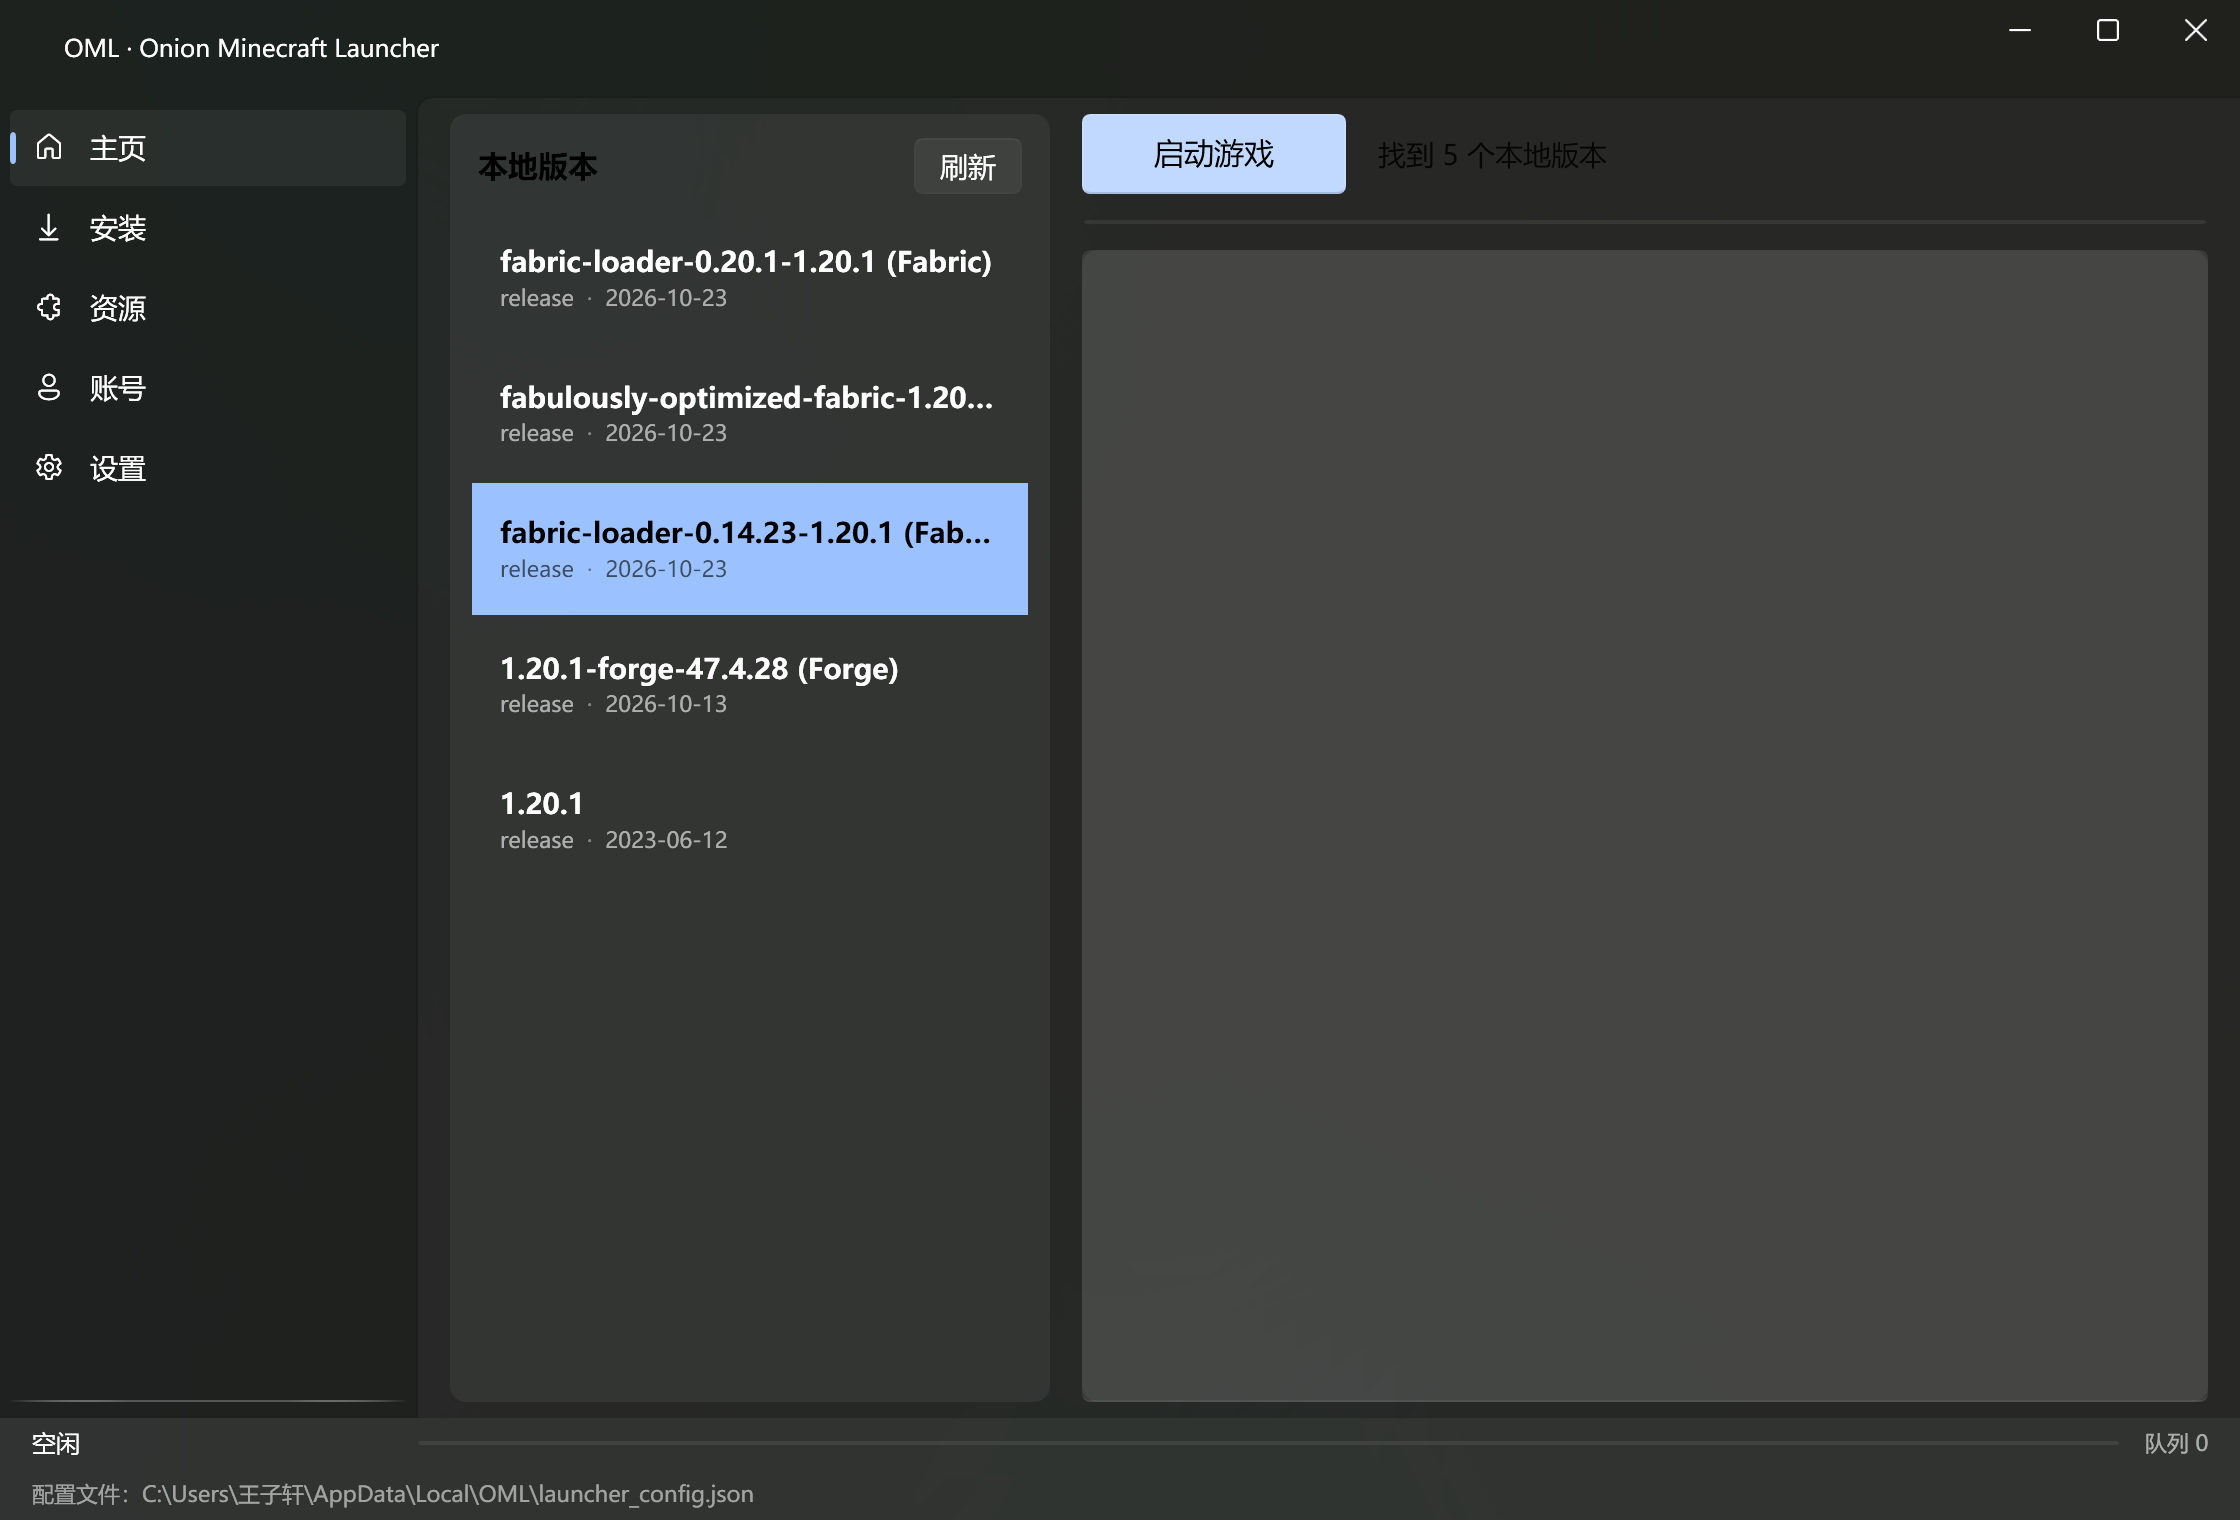
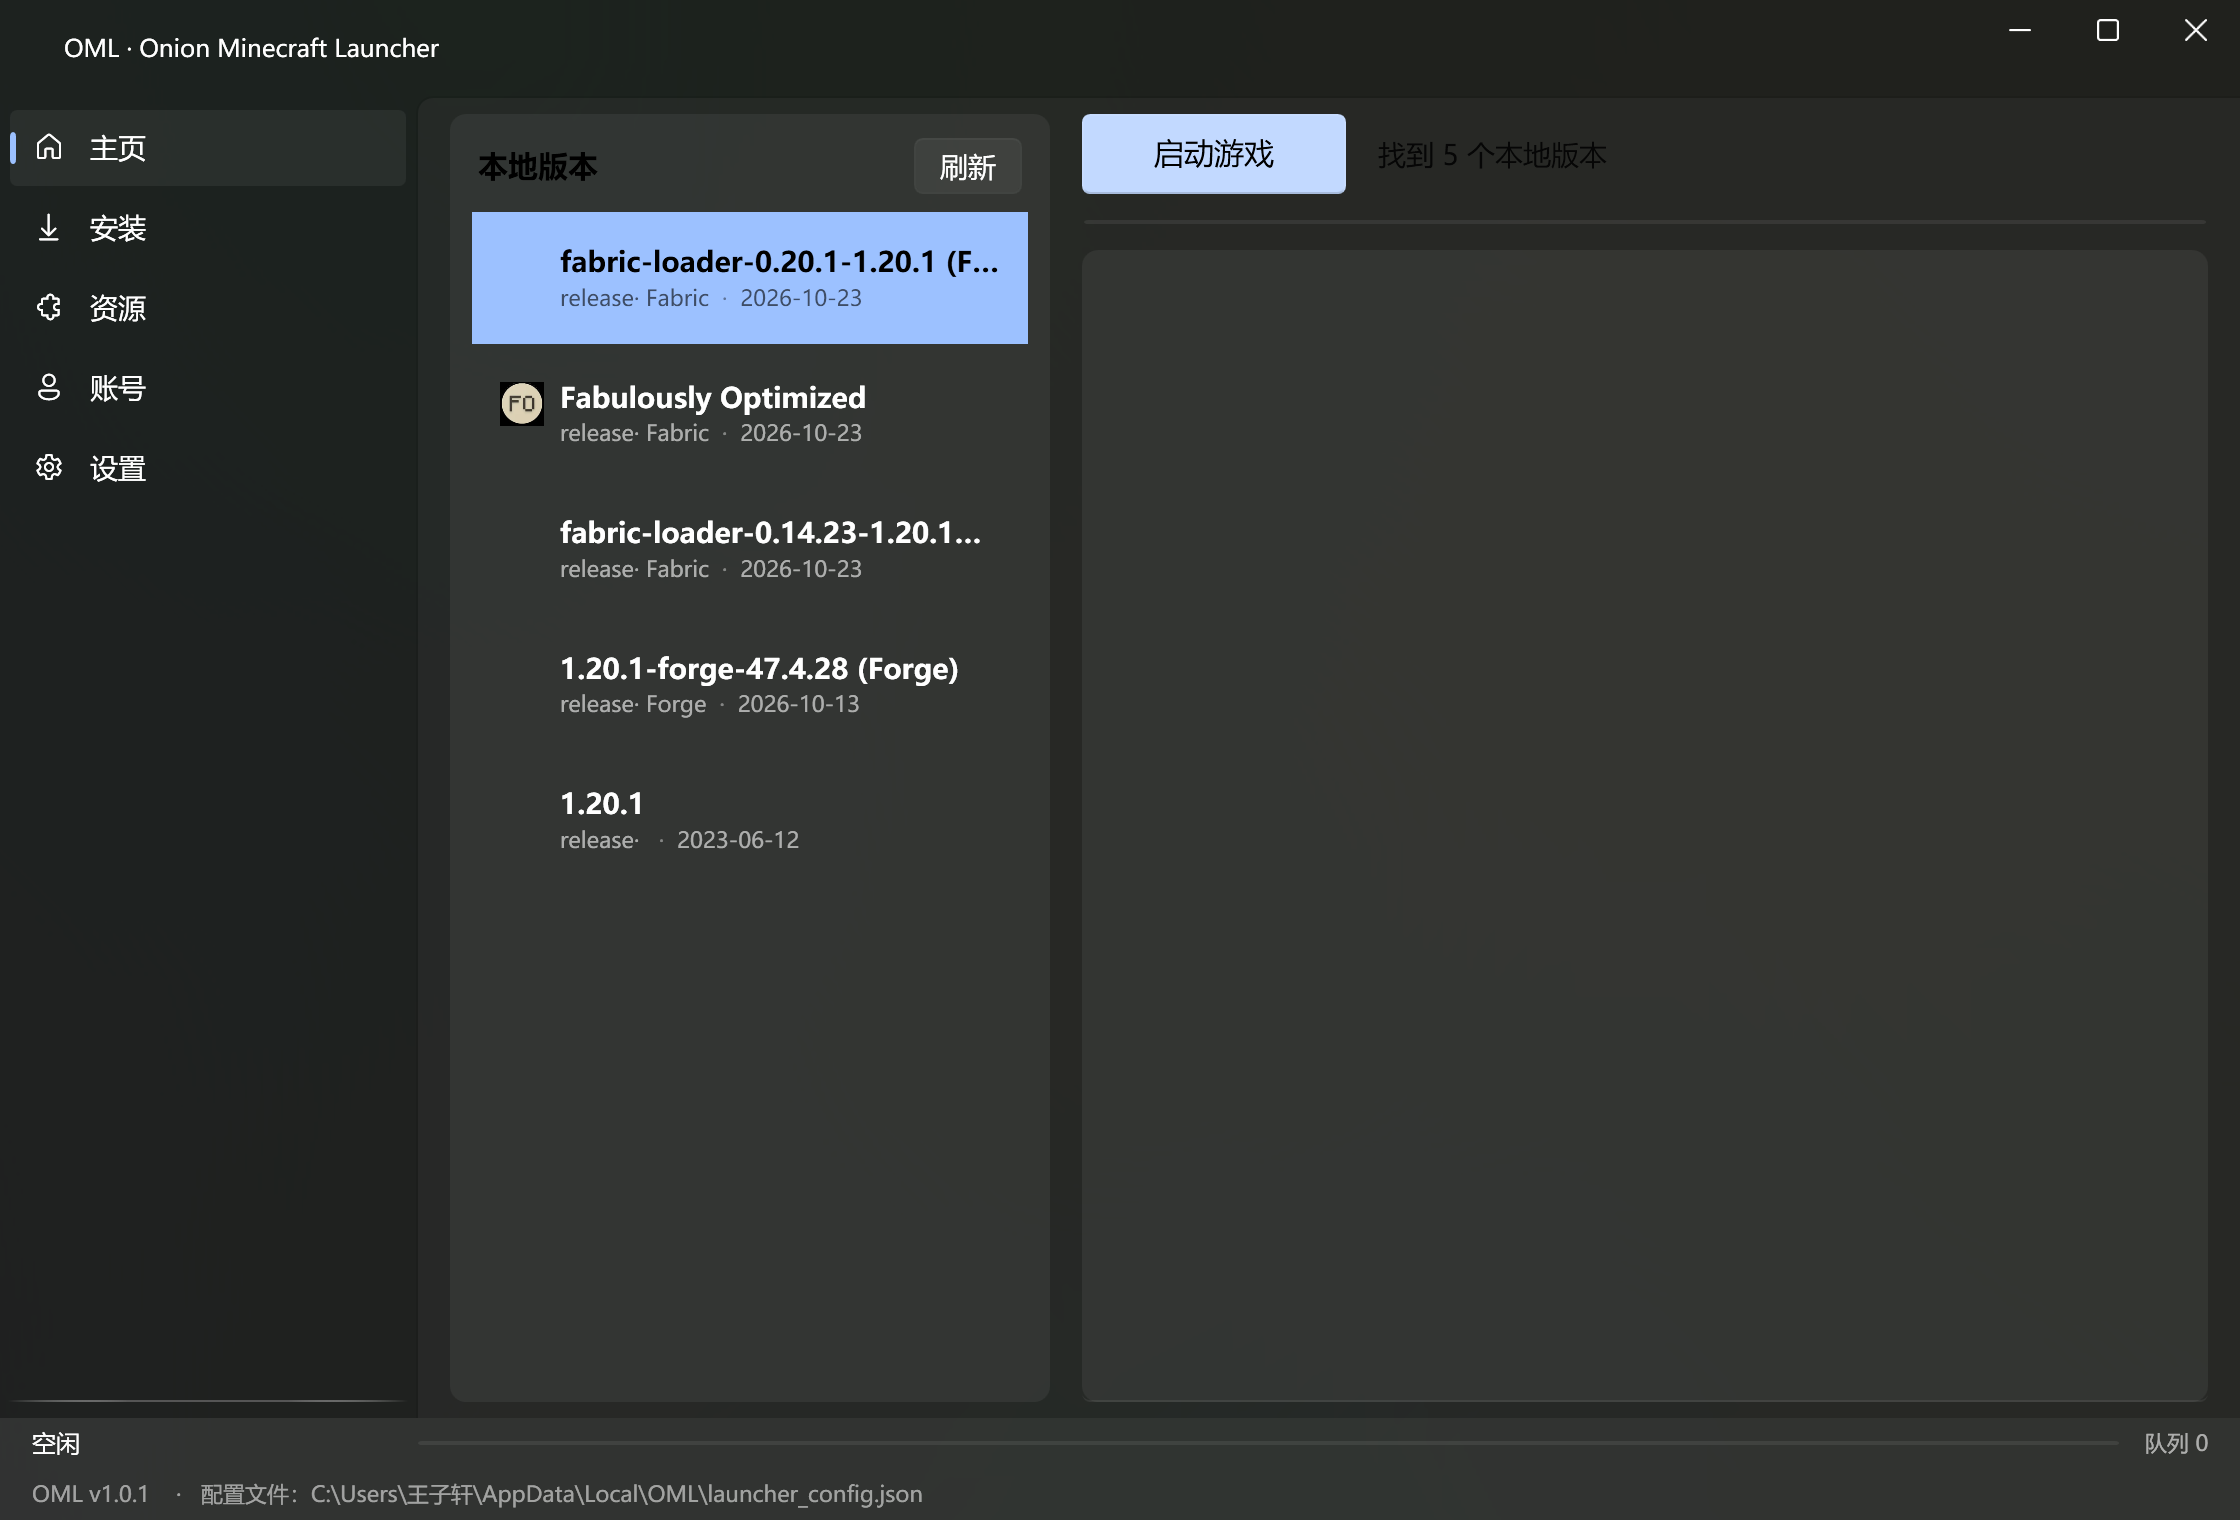
feat: verified auto-update, GitHub Actions release and instance metadata
Auto-update (verified end to end):
- packed 1.0.0 and 1.0.1 with vpk, installed 1.0.0 silently (per-user, no UAC)
- pointed OML_UPDATE_SOURCE at the 1.0.1 release directory; the installed 1.0.0
  showed the update banner, downloaded, restarted and sq.version became 1.0.1
- footer now shows the assembly version so the bump is visible (OML v1.0.1)

CI:
- .github/workflows/release.yml runs on v* tags: .NET 8, publish, install vpk,
  pack with the tag version, upload to the GitHub Release with GITHUB_TOKEN
- publish output directories are gitignored

Instances:
- modpack installs write versions/<id>/instance.json with name/icon/packVersion
- LocalVersionScanner reads it and the home list prefers that name and icon,
  falling back to the version id when the file is missing or malformed
- verified with Fabulously Optimized: the list shows its real name and icon

Docs: README stage 18 section, docs/UPDATE.md now records the actual run and
troubleshooting steps.

diff --git a/OML.Desktop/Views/Pages/HomePage.xaml b/OML.Desktop/Views/Pages/HomePage.xaml
@@ -34,17 +34,31 @@
                          ScrollViewer.HorizontalScrollBarVisibility="Disabled">
                     <ListBox.ItemTemplate>
                         <DataTemplate>
-                            <StackPanel Margin="2,4">
-                                <TextBlock Text="{Binding DisplayName}" FontWeight="SemiBold" TextTrimming="CharacterEllipsis" />
-                                <StackPanel Orientation="Horizontal" Margin="0,2,0,0">
-                                    <TextBlock Text="{Binding Type}" Opacity="0.6" FontSize="11" />
-                                    <TextBlock Text="{Binding Loader, StringFormat= · {0}}"
-                                               Opacity="0.6" FontSize="11" />
-                                    <TextBlock Text="  ·  " Opacity="0.4" FontSize="11" />
-                                    <TextBlock Text="{Binding ReleaseTime, StringFormat={}{0:yyyy-MM-dd}}"
-                                               Opacity="0.6" FontSize="11" />
+                            <Grid Margin="2,4">
+                                <Grid.ColumnDefinitions>
+                                    <ColumnDefinition Width="Auto" />
+                                    <ColumnDefinition Width="*" />
+                                </Grid.ColumnDefinitions>
+
+                                <Image Grid.Column="0"
+                                       Source="{Binding IconUrl}"
+                                       Width="22"
+                                       Height="22"
+                                       Margin="0,1,8,0"
+                                       VerticalAlignment="Top" />
+
+                                <StackPanel Grid.Column="1">
+                                    <TextBlock Text="{Binding DisplayName}" FontWeight="SemiBold" TextTrimming="CharacterEllipsis" />
+                                    <StackPanel Orientation="Horizontal" Margin="0,2,0,0">
+                                        <TextBlock Text="{Binding Type}" Opacity="0.6" FontSize="11" />
+                                        <TextBlock Text="{Binding Loader, StringFormat= · {0}}"
+                                                   Opacity="0.6" FontSize="11" />
+                                        <TextBlock Text="  ·  " Opacity="0.4" FontSize="11" />
+                                        <TextBlock Text="{Binding ReleaseTime, StringFormat={}{0:yyyy-MM-dd}}"
+                                                   Opacity="0.6" FontSize="11" />
+                                    </StackPanel>
                                 </StackPanel>
-                            </StackPanel>
+                            </Grid>
                         </DataTemplate>
                     </ListBox.ItemTemplate>
                 </ListBox>

diff --git a/OML.Desktop/MainWindow.xaml b/OML.Desktop/MainWindow.xaml
@@ -153,10 +153,12 @@
         <Border Grid.Row="4"
                 Padding="16,6"
                 Background="{DynamicResource ControlFillColorSecondaryBrush}">
-            <TextBlock Text="{Binding ConfigPath, StringFormat=配置文件：{0}}"
-                       Opacity="0.55"
+            <TextBlock Opacity="0.55"
                        FontSize="11"
-                       TextTrimming="CharacterEllipsis" />
+                       TextTrimming="CharacterEllipsis">
+                <Run Text="OML v" /><Run Text="{Binding AppVersion, Mode=OneWay}" />
+                <Run Text="   ·   配置文件：" /><Run Text="{Binding ConfigPath, Mode=OneWay}" />
+            </TextBlock>
         </Border>
     </Grid>
 </ui:FluentWindow>

diff --git a/OML.Core/Versioning/LocalVersionScanner.cs b/OML.Core/Versioning/LocalVersionScanner.cs
@@ -20,10 +20,17 @@ public sealed record LocalVersionInfo(
     string? Loader,
     bool HasClientJar,
     string JsonPath,
-    string? InheritsFrom = null)
+    string? InheritsFrom = null,
+    string? InstanceName = null,
+    string? IconUrl = null)
 {
-    /// <summary>给 UI 显示的名字，例如 <c>1.20.1-forge (Forge)</c>。</summary>
-    public string DisplayName => Loader is null ? Id : $"{Id} ({Loader})";
+    /// <summary>
+    /// 给 UI 显示的名字：整合包实例优先用 instance.json 里的名字，
+    /// 否则用 <c>id (Loader)</c>。
+    /// </summary>
+    public string DisplayName => !string.IsNullOrWhiteSpace(InstanceName)
+        ? InstanceName!
+        : Loader is null ? Id : $"{Id} ({Loader})";
 }
 
 /// <summary>
@@ -84,6 +91,7 @@ public sealed class LocalVersionScanner
 
             var (isModded, loader) = DetectLoader(detail);
             var jarPath = Path.Combine(directory, $"{id}.jar");
+            var (instanceName, iconUrl) = ReadInstanceMetadata(Path.Combine(directory, "instance.json"));
 
             results.Add(new LocalVersionInfo(
                 string.IsNullOrWhiteSpace(detail.Id) ? id : detail.Id,
@@ -93,7 +101,9 @@ public sealed class LocalVersionScanner
                 loader,
                 File.Exists(jarPath),
                 jsonPath,
-                detail.InheritsFrom));
+                detail.InheritsFrom,
+                instanceName,
+                iconUrl));
         }
 
         return results
@@ -110,6 +120,33 @@ public sealed class LocalVersionScanner
     /// 判断是不是模组版本。优先看加载器特征库（最可靠），
     /// 其次看 <c>inheritsFrom</c>（Forge/Fabric 一定继承原版）。
     /// </summary>
+    /// <summary>
+    /// 读取整合包实例元数据（<c>versions/&lt;id&gt;/instance.json</c>）。
+    /// 缺失或损坏都返回空，不影响扫描。
+    /// </summary>
+    private static (string? Name, string? IconUrl) ReadInstanceMetadata(string path)
+    {
+        if (!File.Exists(path))
+        {
+            return (null, null);
+        }
+
+        try
+        {
+            using var document = JsonDocument.Parse(File.ReadAllText(path));
+            var root = document.RootElement;
+
+            var name = root.TryGetProperty("name", out var nameElement) ? nameElement.GetString() : null;
+            var icon = root.TryGetProperty("icon", out var iconElement) ? iconElement.GetString() : null;
+
+            return (string.IsNullOrWhiteSpace(name) ? null : name, string.IsNullOrWhiteSpace(icon) ? null : icon);
+        }
+        catch
+        {
+            return (null, null);
+        }
+    }
+
     public static (bool IsModded, string? Loader) DetectLoader(VersionDetail detail)
     {
         ArgumentNullException.ThrowIfNull(detail);

diff --git a/OML.Desktop/ViewModels/ModsViewModel.cs b/OML.Desktop/ViewModels/ModsViewModel.cs
@@ -238,7 +238,7 @@ public partial class ModsViewModel : ObservableObject
         if (SelectedCategoryIndex == 2)
         {
             var slug = SelectedItem.Hit.Slug is { Length: > 0 } hitSlug ? hitSlug : SelectedItem.Hit.ProjectId;
-            await InstallModpackAsync(SelectedItem.Title, slug, LatestVersion);
+            await InstallModpackAsync(SelectedItem.Title, slug, SelectedItem.Hit.IconUrl, LatestVersion);
             return;
         }
 
@@ -389,7 +389,7 @@ public partial class ModsViewModel : ObservableObject
 
             var project = await _client.GetProjectAsync(slug);
             IsBusy = false;
-            await InstallModpackAsync(project.Title, slug, version);
+            await InstallModpackAsync(project.Title, slug, project.IconUrl, version);
         }
         catch (Exception ex)
         {
@@ -401,7 +401,7 @@ public partial class ModsViewModel : ObservableObject
         }
     }
 
-    private async Task InstallModpackAsync(string displayName, string slug, ModrinthVersion version)
+    private async Task InstallModpackAsync(string displayName, string slug, string? iconUrl, ModrinthVersion version)
     {
         var file = ModrinthClient.GetPrimaryFile(version);
         if (file is null)
@@ -452,6 +452,12 @@ public partial class ModsViewModel : ObservableObject
                     DispatcherHelper.Run(() => StatusText = "写入 overrides…");
                     var instanceRoot = Path.Combine(game.VersionsDirectory, instanceId);
                     Directory.CreateDirectory(instanceRoot);
+
+                    // 实例元数据：主页优先显示这里的名字与图标。
+                    var metadata = JsonSerializer.Serialize(
+                        new { name = index.Name, icon = iconUrl, packVersion = version.VersionNumber },
+                        new JsonSerializerOptions { WriteIndented = true });
+                    await File.WriteAllTextAsync(Path.Combine(instanceRoot, "instance.json"), metadata, ct);
 
                     foreach (var overridesName in new[] { "overrides", "client-overrides" })
                     {

diff --git a/OML.Desktop/ViewModels/ShellViewModel.cs b/OML.Desktop/ViewModels/ShellViewModel.cs
@@ -94,6 +94,10 @@ public partial class ShellViewModel : ObservableObject
 
     public string ConfigPath => _context.ConfigPath;
 
+    /// <summary>程序集版本（发布时由 csproj 的 Version 决定）。</summary>
+    public string AppVersion =>
+        typeof(ShellViewModel).Assembly.GetName().Version?.ToString(3) ?? "0.0.0";
+
     /// <summary>
     /// 加载配置并让各页面同步。任何异常向上抛，由 App 统一提示。
     /// </summary>

diff --git a/docs/UPDATE.md b/docs/UPDATE.md
@@ -89,3 +89,21 @@ $env:OML_UPDATE_SOURCE = "http://127.0.0.1:8000"
   需要把 `vpk pack` 的 `Releases` 目录整体上传到 GitHub Release，
   且 tag 使用 Velopack 的版本号（如 `1.0.1`）。
 - 版本号来自 `vpk pack -v`，不是 csproj 的 `<Version>`；两者最好保持一致。
+
+## 五、实测记录（1.0.0 → 1.0.1）
+
+2026-10-24 在本机完整跑通，过程与预期一致：
+
+1. `vpk pack -u OML -v 1.0.0 -p publish` 产出 `OML-win-Setup.exe`(75.7MB) 与 `OML-1.0.0-full.nupkg`(68.5MB)；
+2. `OML-win-Setup.exe --silent` 免 UAC 安装到 `%LOCALAPPDATA%\OML`，无弹窗；
+3. 修改版本号到 1.0.1 后 `vpk pack -v 1.0.1 -o releases-1.0.1`；
+4. 设置 `OML_UPDATE_SOURCE=D:\dshprogram\OML_test\releases-1.0.1` 启动已安装的 1.0.0；
+5. 约 3 秒后顶部出现绿色提示条："发现新版本 1.0.1（当前 1.0.0）"；
+6. 点"后台下载并重启更新"→ 应用退出 → 新进程启动；
+7. `%LOCALAPPDATA%\OML\current\sq.version` 里的 `<version>` 变为 `1.0.1`，页脚显示 `OML v1.0.1`。
+
+如果更新提示没出现，按顺序检查：
+
+- 是否从 `Setup.exe` 安装（直接跑 exe 时 Velopack 认为未安装，会静默跳过）；
+- `OML_UPDATE_SOURCE` 是否指向包含 `releases.win.json` 的目录；
+- 版本号是否真的比已安装版本高。
